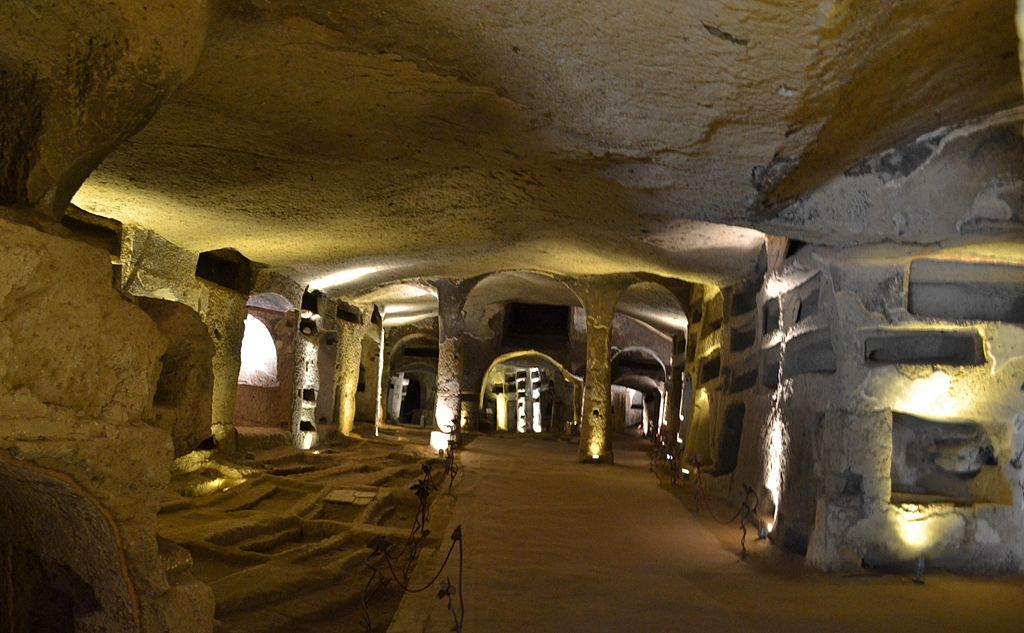
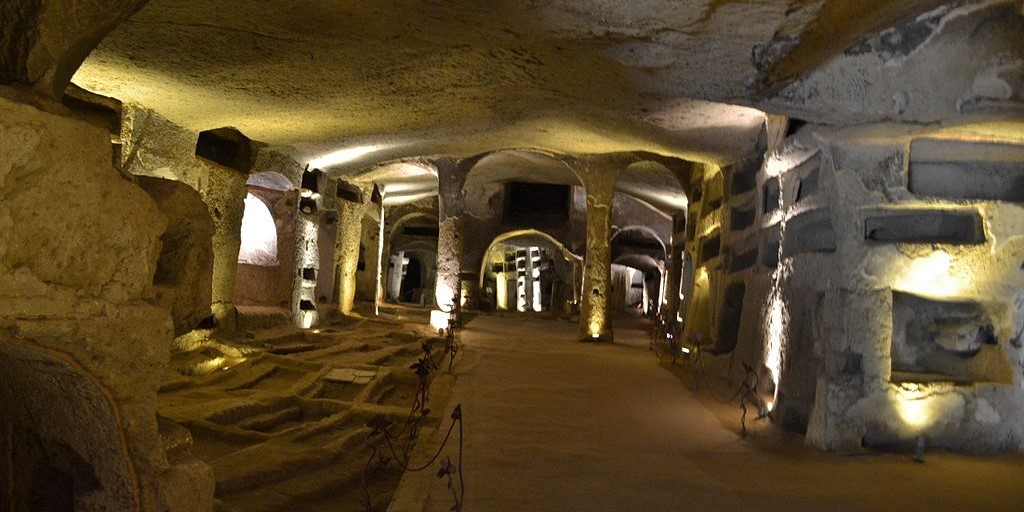
cambio img, mappa e tabella orari

diff --git a/Destinazioni_Napoli.html b/Destinazioni_Napoli.html
@@ -209,85 +209,93 @@
 
   <div class="row">
 
- <div class="container"> <img src="immagini/castello.jpg" alt="Castel dell'Ovo e il Lungomare" class="center" width="100%" height="500px"> </div>
+ <div class="container"> <img src="immagini/castello.jpg" alt="Castel dell'Ovo e il Lungomare" width="100%" height="500px"> </div>
   
-  <div class="column">
-    <p>
-      <b>Il Ponte di Rialto</b>, che fa bella mostra di sè sul Canal Grande. Nel <b>1593</b> il Ponte di Rialto sostituì l’antichissimo ponte fatto con barche di legno che permetteva il passaggio verso il frequentatissimo mercato i Rialto. Oggi il ponte, è un <b>ponte coperto lungo 7,5 metri, è affollatissimo di turisti e venditori</b>, uno dei punti fotografici più famosi del mondo. Come Piazza San Marco, è un centro nevralgico della vita cittadina e prima o poi è inevitabile passare di qui. Non perdetevi il mercato ortofrutticolo allestito al lato del ponte su una delle due rive per vedere un autentico spaccato di vita veneziana. <p> I palazzi che si affacciano sul Canal Grande sono tutti rivolti verso il corso d’acqua, e durante il tour sembrano fare a gare per catturare l’attenzione dei turisti. Osservando la bellezza dei palazzi, l’armonia delle costruzione e gli stretti vicoli che si intravedono <b>mentre il battello procede lentamente verso Piazza San Marco, potrete capire perché Venezia è, da sempre, una delle città più amate del mondo</b>.</p>
-    </p>        
-  </div>
+ <div class="column">
+  <p> Fiero e malinconico, coccolato dalle onde del mare, il <b>Castel dell’Ovo</b> sorge sull’antico isolotto di Megaride. Ci si arriva da Piazza del Plebiscito seguendo l’orizzonte e il rumore del mare. <b>Le leggende fanno a gara per impossessarsi di un po’ di storia del castello</b>: c’è chi dice che il suo destino e quello di tutta Napoli fosse legato all’integrità di un uovo gelosamente custodito nei sotterranei e chi sostiene che il nome della città sia ispirato a <b>Partenope</b>, sirena approdata <b>sull’isolotto di Megaride</b> priva di vita. <p> Ma non dimentichiamoci di <b>Niccolò, l’uomo–pesce che portava al re le gemme preziose situate nei cunicoli sotto l’isolotto</b>. La salita verso la parte alta del castello regala degli scorsi molto suggestivi, ma il punto più bello è certamente la Terrazza dei cannoni, che si trova nella parte più alta del castello e da cui si gode di una vista meravigliosa sul Golfo. Usciti dal Castello vi aspetta il <b>Lungomare</b>, il più bello del mondo secondo molti.</p>
+ </div>
   </div>
 <br><br>
 
-<li> <b>Le Gallerie dell'Accademia</b> </li>
+<li> <b>Il Museo Archeologico Nazionale</b> </li>
 
 <div class="row">
 <div class="column">
 
-<div class="container"><img src="immagini/galleria.jpg" alt="Le Gallerie dell'Accademia" width="100%" height="auto"><br><br></div>
-
-<div class="tabella">
-<h4 class="orario">ORARI DI APERTURA</h4s>
-<table class="table">
-  <tr>
-      <th>Lunedì</th>
-      <td>8:15 – 14:00</td>
-  </tr>
-  <tr>
-      <th>Martedì</th>
-      <td>8:15 – 19:15</td>
-  </tr>
-  <tr>
-      <th>Mercoledì</th>
-      <td>8:15 – 19:15</td>
-  </tr>
-  <tr>
-      <th>Giovedì</th>
-      <td>8:15 – 19:15</td>
-  </tr>
-  <tr>
-      <th>Venerdì</th>
-      <td>8:15 – 19:15</td>
-  </tr>
-  <tr>
-      <th>Sabato</th>
-      <td>8:15 – 19:15</td>
-  </tr>
-  <tr>
-      <th>Domenica</th>
-      <td>8:15 – 19:15</td>
-  </tr>
-</table>
-</div>
+<div class="container"><img src="immagini/museonapoli.jpg" alt="Il Museo Archeologico Nazionale" width="100%" height="auto"><br><br></div>
 </div>
 
-  <div class="column">
-    <p> Le Gallerie dell’Accademia ospitano la più ricca collezione di dipinti veneziani e veneti, dal Trecento bizantino e gotico agli artisti del Rinascimento. Le <b>37 sale museali</b> sono ospitate all’interno dell’ex Chiesa di Santa Maria della Carità e nell’annesso convento, un tempo <b>sede dell’Accademia di Belle Arti</b>. Alcuni nomi possono chiarire immediatamente la quantità e qualità delle opere ospitate; <b>Bellini, Carpaccio, Giorgione, Veronese, Tintoretto e Tiziano, Tiepolo e i grandi vedutisti settecenteschi Canaletto, Guardi, Bellotto, Longhi</b>. 
-      <p> Ci sono poi opere del Mantegna, una di Piero della Francesco, Crivelli, Luca Giordano, Memling e altri. 
-      Nel museo, inoltre, è ospitato anche uno dei pezzi forti di <b>Leonardo da Vinci, l’Uomo Vitruviano</b>, che però viene esposto molto raramente perché la luce scolorirebbe l’inchiostro.</p>          
-    </div>      
 
+<div class="column">
+  <p>Prima scuola di equitazione poi sede dell’Università, il Museo Archeologico di Napoli (MANN) fu <b>inaugurato nel 1816</b> e ad oggi è uno dei più importanti nel mondo per la qualità e la quantità delle opere che custodisce. Il <b>Re Ferdinando IV</b> intendeva creare a Napoli un imponente istituto per le arti e, a distanza di oltre due secoli, si può dire che le sue ambizioni siano state realizzate. Il Museo Archeologico, oltre a contenere i <b>ritrovamenti degli scavi di Pompei</b>, <b>ospita reperti dell’età greco-romana, le antichità egizie ed etrusche</b> della collezione Borgia e le monete antiche della collezione Santangelo. 
+  </div>
+  </div> 
+    </div>    
+
+
+<div class="row justify-content-between">
+  <div class="col-4">
+    <div class="tabella">
+      <h4 class="orario">ORARI DI APERTURA</h4s>
+      <table class="table">
+        <tr>
+            <th>Lunedì</th>
+            <td>9:00 - 19:30</td>
+        </tr>
+        <tr>
+            <th>Martedì</th>
+            <td>Chiuso</td>
+        </tr>
+        <tr>
+            <th>Mercoledì</th>
+            <td>9:00 - 19:30</td>
+        </tr>
+        <tr>
+            <th>Giovedì</th>
+            <td>9:00 - 19:30</td>
+        </tr>
+        <tr>
+            <th>Venerdì</th>
+            <td>9:00 - 19:30</td>
+        </tr>
+        <tr>
+            <th>Sabato</th>
+            <td>9:00 - 19:30</td>
+        </tr>
+        <tr>
+            <th>Domenica</th>
+            <td>9:00 - 19:30</td>
+        </tr>
+      </table>
+  </div>
+  </div>
+
+  <div class="col-4">
     <div class="container">
       <div class="indirizzo-to">
         <h3>Indirizzo</h3>
-        <iframe width="100%" height="300px" src="https://www.google.com/maps/embed?pb=!1m18!1m12!1m3!1d2799.9215796703725!2d12.325564475450904!3d45.43108213564893!2m3!1f0!2f0!3f0!3m2!1i1024!2i768!4f13.1!3m3!1m2!1s0x477eb1ce021dc073%3A0xcb39dadfeea7176b!2sGallerie%20dell&#39;Accademia!5e0!3m2!1sit!2sit!4v1710185895663!5m2!1sit!2sit"  width="600" height="450" style="border:0;" allowfullscreen="" loading="lazy"></iframe>        
-      </div> 
+          <iframe width="350px" height="210px" src="https://www.google.com/maps/embed?pb=!1m18!1m12!1m3!1d3017.832438093618!2d14.24795047517496!3d40.85360252893606!2m3!1f0!2f0!3f0!3m2!1i1024!2i768!4f13.1!3m3!1m2!1s0x133b0867e2c94023%3A0xb48ecf1589057c98!2sMuseo%20Archeologico%20Nazionale%20di%20Napoli!5e0!3m2!1sit!2sit!4v1710241019964!5m2!1sit!2sit" style="border:0;" allowfullscreen="" loading="lazy"></iframe>
+    </div>
+  </div>
+</div>
+</div>
+
+ 
 <br><br>
 
-  <li> <b>Murano</b> </li>
+  <li> <b>Napoli Sotterranea</b> </li>
 
   <div class="row">
 
-  <div class="container"> <img src="immagini/murano.jpg" alt="Murano" width="100%" height="400px"> </div>
+  <div class="container"> <img src="immagini/catacombe.jpg" alt="Napoli Sotterranea" width="auto" height="100%"> </div>
 
   <div class="column">
-    <p> Una visita a <b>Murano</b> è l’appendice ideale a una vacanza a Venezia perfetta. Lontana solo un paio di fermate vaporetto dal centro storico. <b>È l’isola più grande della laguna, a sua volta formata da sette isole collegate tra loro da ponti e attraversata da un canale principale</b> <i>Canal Grande</i> su cui si affacciano case basse dalle facciate variopinte ed eleganti palazzi. La fama di Murano è indissolubilmente legata al <b>vetro</b>, una materia prima “umile” che la maestria degli artigiani locali ha elevato al rango di creazione artistica. <p> Assistere all’elaborato processo con cui il vetro soffiato assume le forme più incredibili è un’esperienza emozionante e irripetibile. <b>La lavorazione del vetro è una tradizione viva</b>, portata avanti da aziende con clienti importanti in tutto il mondo, e non una messa in scena a uso e consumo dei turisti.</p>
-  </div>
+    <p>Per secoli, dal profondo ventre di Napoli, è stato ricavato il tufo per costruire la città di sopra. <b>La città di sotto</b>, quindi, nasconde un fitto intrigo di anfratti, grotte e cunicoli che raccontano una storia parallela alla vita della Napoli in superficie. La città sotterranea è servita ai napoletani in molti modi: <b>da rifugio durante i bombardamenti a fonte di acqua, da discarica a luogo in cui si nascondevano i delinquenti</b>. Negli ultimi decenni è in corso un recupero ampio della Napoli Sotterranea che oggi potete visitare su due percorsi principali: da Via dei Tribunali si accede al percorso classico che attraversa l’acquedotto greco-romano, rifugi antiaerei, <b>il Museo della Guerra, orti sotterranei e la Stazione Sismica “Arianna”</b>. </p>
+   </div><br><br>
 
 
-<br>
-<br>
-<br>
+
+
 <br>
 <hr>
 
